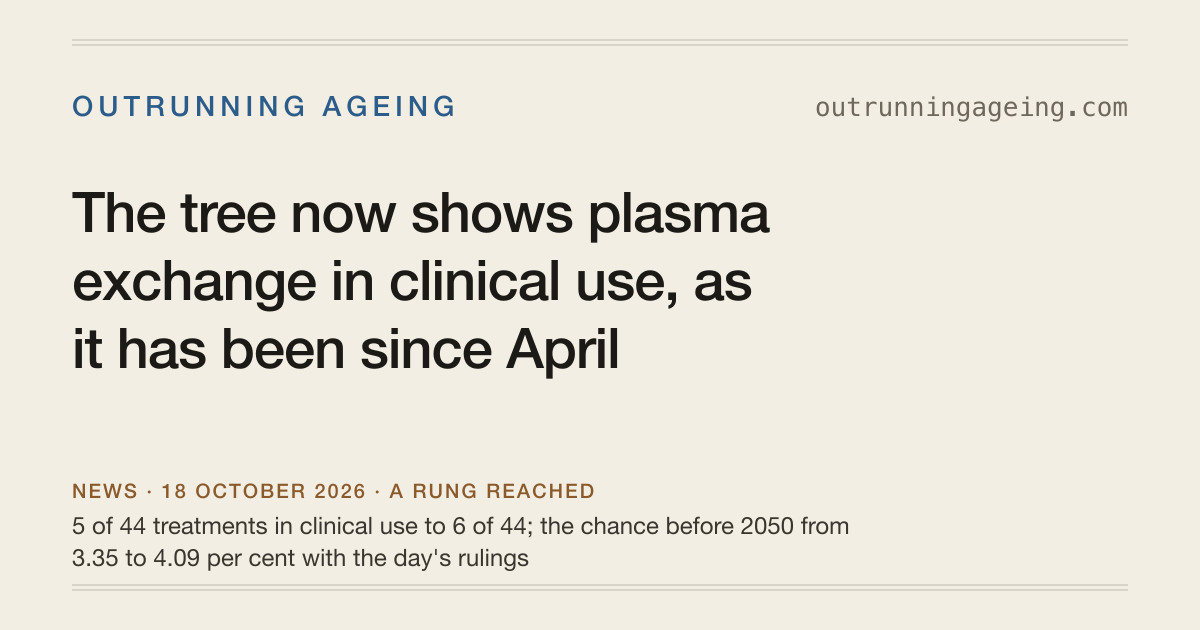
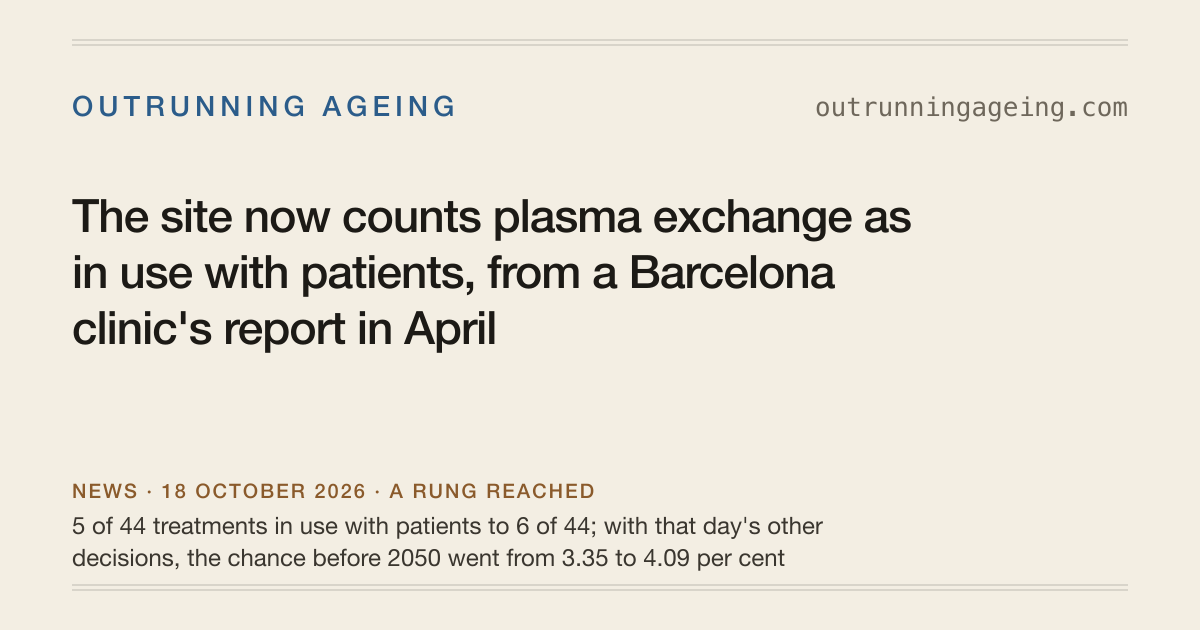
2026-10-19: both news posts rewritten as short stories for a reader new to the site (tracker pattern rule 4.19, John's ruling of 2026-10-19); no fact or figure changed
The plasma-exchange post opens on when a treatment stops being an experiment, tells the Barcelona clinic's report and the ruling plainly, and says what it changes (sixth of 44 in use with patients, the inflammation group 2042 to 2026) and what it does not (the year stays 2058). No table, no item numbers; the title and summary are plainer and the source labels drop "item 13".

The Start here post keeps John's opening, names the five stages and the turning point before any number, cuts the file-path source appendix and the words "rung", "tree", "handled" and "session", and gives one reason for the year holding at 2058, the same as the plasma post's. Each ends with one plain dated line saying it was rewritten. Not live until John approves.

Changed region(s): [[0.0617, 0.3016, 0.7708, 0.6032], [0.0617, 0.8143, 0.7092, 0.9048]]

diff --git a/site/src/content/news/2026-10-18-start-here.md b/site/src/content/news/2026-10-18-start-here.md
@@ -2,29 +2,31 @@
 title: "Where Outrunning Ageing stands, and what to watch"
 date: 2026-10-18
 kind: start-here
-summary: What the site asks and how the year is worked out, where the numbers stand as of 18 October 2026, how to follow them week by week, the most interesting news so far, and what to watch for.
+summary: When will medicine start adding more than a year of healthy life for every year you live? This post explains how the site works out its answer, where that answer stood on 18 October 2026, and what could move it next.
 sources:
-  - label: The headline file, the numbers as they stand
+  - label: The numbers as they stand
     url: https://outrunningageing.com/data/headline.json
-  - label: The method
+  - label: How the year is worked out
     url: https://outrunningageing.com/method/
 ---
 
-## The idea
+## The Idea
 
 [Outrunning Ageing](https://outrunningageing.com/) asks one question: when do we start outrunning ageing? Every year you live, medicine gets a little better, but for a person in middle age it does not yet get better fast enough, so the years you can expect to have left still fall by about a year every year. The site asks when, if ever, that stops being true, so that someone who keeps up with the best available care finds their remaining years holding steady or rising.
 
-The question usually gets filed under science fiction or under marketing. I wanted it broken into pieces anyone can argue about, with a year at the top that is computed from them and moves in public when a new result moves it. How and why I built it is in [the essay that introduced the project](https://sentient-horizons.com/essays/outrunning-ageing/).
+The question usually gets filed under science fiction or under marketing. I wanted it broken into pieces anyone can argue about, with a year at the top that is worked out from those pieces and moves in public when a new result moves it. How and why I built it is in [the essay that introduced the project](https://sentient-horizons.com/essays/outrunning-ageing/).
 
-This is the start of the site's news section. When a reading or a ruling moves a treatment up a rung, changes the year or settles a promise in the claims log, I will write it up here beside the record it explains. A quiet week gets no post.
+This post opens the site's news section. When a new result or one of my decisions moves a treatment to a new stage, changes the year or settles one of the public promises in [the claims log](https://outrunningageing.com/claims/), I will write it up here and link the page it changes. A quiet week gets no post.
 
-## Where the numbers stand
+## Where the Numbers Stand
 
-As of 18 October 2026, the middle estimate of the year medicine starts adding more than a year of healthy life for every year that passes is 2058, from two hundred thousand runs of the tree ([the headline record](https://outrunningageing.com/data/headline.json)). Nine runs in ten land between 2050 and 2069. The chance it comes before 2050 is 4.3 percent, and in no run does it fail to arrive this century.
+The pieces are treatments, and a few tools for measuring ageing: [45 of them](https://outrunningageing.com/branches/) on 18 October 2026, after one joined that day. Each moves through the same five stages: an idea only, shown in animals, tried in people, in use with patients, and in wide use. Each has a plain test for when it counts as in use with patients and, if it is not there yet, a range of years for when it might get there. To find the year at the top, the turning point the site's question asks about, the site picks a year from every range, works out the turning point that those picks would give, and does this two hundred thousand times, so that the answer shows how uncertain it is rather than resting on a single guess.
 
-The year is worked out from 45 treatments and measuring tools on [eight branches](https://outrunningageing.com/branches/), seven for kinds of damage that repair has to deal with and one for measuring ageing. A branch counts as handled in the year its second treatment reaches patients, and the year at the top cannot come until every branch is handled, plus some years for the treatments to reach ordinary people. The middle estimate for each branch:
+On 18 October 2026 the middle of those two hundred thousand results was 2058 ([the numbers as they stand](https://outrunningageing.com/data/headline.json)). Nine results in ten fell between 2050 and 2069. In 4.3 per cent of the results the turning point came before 2050, which the site calls the chance before 2050, and in every result it came by 2100.
 
-- [broken proteins and waste](https://outrunningageing.com/branches/broken-proteins/): handled by 2023;
+The treatments sit in [eight groups](https://outrunningageing.com/branches/), seven for the kinds of damage that ageing does and one for measuring ageing. A group counts as dealt with in the year its second treatment reaches patients. The turning point cannot come until every group is dealt with, and then it waits a few more years while the treatments spread from the clinic to ordinary people. The middle estimate for each group:
+
+- [broken proteins and waste](https://outrunningageing.com/branches/broken-proteins/): already dealt with, in 2023, since two of its treatments are in use;
 - [inflammation and the body's messaging](https://outrunningageing.com/branches/inflammation-and-signalling/): 2026;
 - [energy and fuel sensing](https://outrunningageing.com/branches/energy-and-fuel/): 2028;
 - [replacing lost cells and parts](https://outrunningageing.com/branches/replacing-parts/): 2032;
@@ -33,57 +35,38 @@ The year is worked out from 45 treatments and measuring tools on [eight branches
 - [damaged DNA](https://outrunningageing.com/branches/damaged-dna/): 2044;
 - [the cell's settings](https://outrunningageing.com/branches/cell-settings/): 2044.
 
-Six of the 45 are already in use with patients. The gap between the clinic and ordinary people is drawn from 3 to 15 years, most likely 8 ([the method](https://outrunningageing.com/method/)).
+Six of the 45 are already in use with patients. The time it takes a treatment to spread from the clinic to ordinary people is my own first guess, anywhere from 3 to 15 years and most likely 8 ([how the year is worked out](https://outrunningageing.com/method/)).
 
-The year has stood at 2058 at every run since the first, while the chance before 2050 has risen from 2.7 to 4.3 percent ([what changed, day by day](https://outrunningageing.com/story/#what-changed)).
+The year has stood at 2058 every time it has been worked out, while the chance before 2050 has risen from 2.7 to 4.3 per cent ([what changed, day by day](https://outrunningageing.com/story/#what-changed)).
 
-## How to follow it
+## How to Follow It
 
-Every Sunday morning, Pacific time, a fresh session searches the week's news against every treatment's test, every claim and every public self-experiment, and gives each a verdict. It may move a treatment up one rung, onto "shown in animals" or "first human" only, and only on a record of the kind that treatment names. Putting a treatment in the clinic, changing an estimate or settling a claim is left to me.
+Every Sunday morning, Pacific time, the site's automated weekly search checks the week's news against every treatment's test, every promise in the claims log and every public self-experiment (people openly testing a treatment on themselves), and gives each a verdict. That weekly search may move a treatment up one stage, to shown in animals or tried in people and no further, and only on the kind of evidence that treatment's test names. Putting a treatment in use with patients, changing a range of years or settling a promise is left to me.
 
-Each week's reading is on [the Reading page](https://outrunningageing.com/reading/). [The Story](https://outrunningageing.com/story/) logs every paper read, and its section [What changed, day by day](https://outrunningageing.com/story/#what-changed) gives one line for each day the records changed. [The Branches](https://outrunningageing.com/branches/) lead to every treatment with its test, stage and range of years, and [the Claims](https://outrunningageing.com/claims/) page sets who promised what beside what has been shown. [The Method](https://outrunningageing.com/method/) explains how the year is worked out and who does what. Every new post also goes out on [the news feed](https://outrunningageing.com/news/feed.xml).
+Each week's search is on [the Reading page](https://outrunningageing.com/reading/), and [the Story](https://outrunningageing.com/story/) gives one line for each day something on the site changed. [The Branches page](https://outrunningageing.com/branches/) leads to every group and treatment with its test, its stage and its range of years, and [the Claims](https://outrunningageing.com/claims/) page sets what people have promised beside what has been shown. Every new post also goes out on [the news feed](https://outrunningageing.com/news/feed.xml).
 
-## The most interesting news so far
+## The Most Interesting News So Far
 
-The biggest move on the site came on 17 October 2026, when it recognised that [plasma exchange](https://outrunningageing.com/leaves/replacing-a-persons-plasma-slows-an-age-related-disease/) had reached the clinic: the [Ace Alzheimer Center in Barcelona](https://www.acebarcelona.org/en/plasma-exchange-alzheimers-asfa-2026) had published on 27 April 2026 that 71 patients had completed its 15-month programme under routine clinical practice. The treatment, replacing the liquid part of a person's blood to slow an age-related disease, had sat on the tree at first human since [a trial in Alzheimer's disease](https://doi.org/10.1002/alz.12137) reported in July 2020. The site's first weekly reading found only the supplier's word for it, and the outside review the same day found the centre's own page. I ruled that a named clinic publishing its own practice meets the test, and the rung is dated to the centre's page, in April. The case against is on the record too: the results were a conference presentation, not a peer-reviewed paper, and the guidelines of the professional society for blood-filtering treatments still class its role in Alzheimer's disease as not established. With plasma exchange and an anti-inflammatory drug already approved to prevent heart attacks, the [inflammation branch](https://outrunningageing.com/branches/inflammation-and-signalling/) went from handled by 2042 to 2026.
+The biggest move so far came on 17 October 2026, when the site recognised that [plasma exchange](https://outrunningageing.com/leaves/replacing-a-persons-plasma-slows-an-age-related-disease/), which replaces the liquid part of a person's blood, is in use with patients. The [Ace Alzheimer Center Barcelona](https://www.acebarcelona.org/en/plasma-exchange-alzheimers-asfa-2026) had published on 27 April 2026 that 71 people with Alzheimer's disease had completed its fifteen-month programme as ordinary care, and I ruled that a named clinic publishing its own practice meets the test. The case against is on the treatment's page too: the results were a conference talk, not a paper checked by other scientists, and the professional society for treatments that filter the blood still says its role in Alzheimer's disease is not established. [Colchicine](https://outrunningageing.com/leaves/an-anti-inflammatory-drug-is-approved-to-prevent-heart-attacks/), a drug that acts only on inflammation, was already approved to prevent heart attacks, so with plasma exchange the [inflammation group](https://outrunningageing.com/branches/inflammation-and-signalling/) moved from 2042 to 2026. [The post on plasma exchange](https://outrunningageing.com/news/2026-10-18-plasma-exchange-in-clinical-use/) tells the whole story.
 
-The year did not move, because other rulings from the same review pulled the other way. One was on [a drug meant to lengthen the caps on the ends of chromosomes](https://outrunningageing.com/leaves/a-drug-lengthens-chromosome-ends-in-a-person/): its follow-up study found no significant lengthening, and its one mid-stage trial was stopped in 2025 because it could not succeed, so its range of years moved later, from between 2030 and 2070 to between 2038 and 2085. Taken together, that day's rulings raised the chance before 2050 from 3.4 to 4.1 percent. The review also offered four published figures for the gap between the clinic and ordinary people, and none checked out, so the gap stays a first guess.
+The year did not move. It waits for the slowest groups, and inflammation was not one of them, while other decisions from the same review pushed some groups later. One was about [a drug meant to lengthen the protective caps on the ends of chromosomes](https://outrunningageing.com/leaves/a-drug-lengthens-chromosome-ends-in-a-person/): its follow-up study found no lengthening that could be told apart from chance, and its one mid-stage trial was stopped in 2025 because it could not succeed, so its range of years moved later, from between 2030 and 2070 to between 2038 and 2085. Taken together, that day's decisions raised the chance before 2050 from 3.4 to 4.1 per cent. The review also offered four published figures for how long a treatment takes to spread from the clinic to ordinary people, and none of them held up when checked, so that figure stays my first guess.
 
-Earlier that day [a drug to make dogs live longer](https://outrunningageing.com/leaves/a-drug-is-approved-to-make-dogs-live-longer/) joined the tree, at idea only, since the only data behind it so far are the company's own. A conditional approval would put it in the clinic, most likely in 2028, and adding it moved the energy and fuel sensing branch from 2039 to 2028.
+Earlier on 17 October [a drug to make dogs live longer](https://outrunningageing.com/leaves/a-drug-is-approved-to-make-dogs-live-longer/) joined the site at the earliest stage, an idea only, since the only data behind it so far are the company's own. It sits beside the human treatments because it is the first place a regulator is being asked to put "extends lifespan" on a label. A conditional approval would count as in use, most likely in 2028, and adding it moved the energy and fuel sensing group from 2039 to 2028.
 
-On 18 October 2026, after a reading of one laboratory's papers, a new measuring tool went on the tree: [a count of the DNA](https://outrunningageing.com/leaves/a-blood-count-of-mitochondrial-dna-predicts-death-and-disease/) in a cell's power plants, the mitochondria, taken from a blood sample. [A 2014 report](https://doi.org/10.1007/s00109-014-1233-3) on 16,401 people found that those with the lowest counts were more likely to die, allowing for age and sex. It entered at first human, and the chance before 2050 rose from 4.1 to 4.3 percent.
+On 18 October 2026, after a close reading of one laboratory's papers, a new measuring tool joined the site: [a count of the DNA](https://outrunningageing.com/leaves/a-blood-count-of-mitochondrial-dna-predicts-death-and-disease/) in a cell's power plants, the mitochondria, taken from a blood sample. [A 2014 report](https://doi.org/10.1007/s00109-014-1233-3) on 16,401 people found that those with the lowest counts were more likely to die, allowing for age and sex. It joined at the stage of tried in people, and the chance before 2050 rose from 4.1 to 4.3 per cent.
 
-## What to watch for
+## What to Watch For
 
-[The cell's settings branch](https://outrunningageing.com/branches/cell-settings/) is one of the two slowest, so it holds the year back more than most. [Tune Therapeutics](https://www.tunetx.com/) reported at a conference in May 2026 that one dose of [a treatment that rewrites the chemical marks on a single gene](https://outrunningageing.com/leaves/a-cells-settings-are-rewritten-at-one-gene-in-a-person/) kept a liver virus's markers down for up to seventeen months. Once that appears in a peer-reviewed paper or as results posted to the trial registry, the treatment should move to first human. The [registry](https://clinicaltrials.gov/study/NCT06671093) estimates the trial's main results in June 2028.
+[The cell's settings group](https://outrunningageing.com/branches/cell-settings/) is one of the two slowest, so it holds the year back more than most. [Tune Therapeutics](https://www.tunetx.com/) reported at a conference in May 2026 that one dose of [a treatment that rewrites the chemical marks on a single gene](https://outrunningageing.com/leaves/a-cells-settings-are-rewritten-at-one-gene-in-a-person/) kept the signs of a liver virus, hepatitis B, down in the blood for up to seventeen months. Once that appears in a paper checked by other scientists, or as results posted to the public register of clinical trials, the treatment should move up to tried in people. [The register](https://clinicaltrials.gov/study/NCT06671093) expects the trial's main results in June 2028.
 
-[Vertex reports its third-quarter results on 2 November 2026](https://investors.vrtx.com/news-releases/news-release-details/vertex-announce-third-quarter-2026-financial-results-november), and the record is watching for any approval filing for zimislecel, insulin-making cells it grows from stem cells to treat type 1 diabetes ([the treatment's record](https://outrunningageing.com/leaves/cells-grown-from-stem-cells-restore-a-lost-organ-function/)).
+The drug company [Vertex](https://www.vrtx.com/) [reports its quarterly results on 2 November 2026](https://investors.vrtx.com/news-releases/news-release-details/vertex-announce-third-quarter-2026-financial-results-november), and the site is watching for any news that it has applied for approval of zimislecel, insulin-making cells the company grows from stem cells to treat type 1 diabetes ([the treatment's page](https://outrunningageing.com/leaves/cells-grown-from-stem-cells-restore-a-lost-organ-function/)).
 
-A small pilot trial of [eye drops meant to dissolve the clouded protein of a cataract](https://outrunningageing.com/leaves/eye-drops-dissolve-the-clouded-protein-of-a-cataract/) is due to finish in February 2027, by [the registry's estimate](https://clinicaltrials.gov/study/NCT07395986); no human trial of such drops has been published yet. The company behind the dog drug, [Loyal](https://loyal.com/), now expects to finish its application in 2027 ([the dog drug's record](https://outrunningageing.com/leaves/a-drug-is-approved-to-make-dogs-live-longer/)).
+A small early trial of [eye drops meant to dissolve the clouded protein of a cataract](https://outrunningageing.com/leaves/eye-drops-dissolve-the-clouded-protein-of-a-cataract/) is due to finish in February 2027, by [the register's estimate](https://clinicaltrials.gov/study/NCT07395986); no trial of such drops in people has been published yet. The company behind the dog drug, [Loyal](https://loyal.com/), now expects to finish its application in 2027 ([the dog drug's page](https://outrunningageing.com/leaves/a-drug-is-approved-to-make-dogs-live-longer/)).
 
-[The claims log](https://outrunningageing.com/claims/) has dates coming due as well, from 2029 on, among them the inventor [Ray Kurzweil](https://en.wikipedia.org/wiki/Ray_Kurzweil)'s [claim of February 2026](https://www.bostonmagazine.com/health/2026/02/11/ray-kurzweil-interview/) that by 2032 "you'll gain back one year for each year lived." A claim never moves the year.
+[The claims log](https://outrunningageing.com/claims/) has dates coming due as well, from 2029 on, among them the inventor [Ray Kurzweil](https://en.wikipedia.org/wiki/Ray_Kurzweil)'s [claim of February 2026](https://www.bostonmagazine.com/health/2026/02/11/ray-kurzweil-interview/) that by 2032 "you'll gain back one year for each year lived." A promise in the claims log never moves the year.
 
 ---
 
-## Sources
+Every fact above links to its source or to the page on this site it comes from. The numbers are as they stood on 18 October 2026, and they were the same when the site worked them out again on 19 October ([the numbers as they stand](https://outrunningageing.com/data/headline.json)).
 
-Every fact above was checked on 2026-10-18 against the page or record named here. Repository paths are on the `main` branch of [github.com/jfredson/outrunning-ageing](https://github.com/jfredson/outrunning-ageing) at commit `3875679`.
-
-- The question and the paragraph under it: https://outrunningageing.com/ (the page's only heading, "When do we start outrunning ageing?").
-- Science fiction or marketing, pieces anyone can argue about, a number computed from the pieces: `README.md` line 5; https://outrunningageing.com/method/ , "Who is asking".
-- 2058, 2050 to 2069, 4.27 percent before 2050, 0 percent after 2100, 200,000 runs, computed 2026-10-18: https://outrunningageing.com/data/headline.json ; https://outrunningageing.com/method/ , "The numbers as they stand".
-- 45 treatments and tools, 6 in the clinic, eight branches and their middle years: https://outrunningageing.com/data/headline.json (`branches`, counts); https://outrunningageing.com/ .
-- The handled rule and the lag of 3, 8 and 15 years: https://outrunningageing.com/data/headline.json (`method`); https://outrunningageing.com/ .
-- The history of the chance before 2050 (2.66 percent on 2026-10-16, 4.27 percent now) and the year at 2058 throughout: headline file `history`; `CHANGELOG.md` line 7.
-- The weekly reading, its verdicts and its limits: https://outrunningageing.com/reading/ ; `docs/weekly-reading.md` lines 22 to 62. Sunday mornings: `docs/weekly-reading-prompt.md` line 21 ("Sundays 06:00 Pacific", ruled 2026-10-17).
-- Pages: /reading/ , /story/ and /story/#what-changed , /branches/ , /claims/ , /method/ , /disagree/ (all opened 2026-10-18). No feed: /rss.xml and /feed.xml return 404.
-- Plasma exchange, first human 2020-07-27, the Grifols release, the Barcelona page of 2026-04-27, 71 patients, the ruling, the case against, inflammation 2042 to 2026: `data/leaves/replacing-a-persons-plasma-slows-an-age-related-disease.toml` lines 31 to 34, 47 to 82, 115 to 121, 144; https://www.acebarcelona.org/en/plasma-exchange-alzheimers-asfa-2026 ; https://doi.org/10.1002/alz.12137 ; `CHANGELOG.md` lines 27 and 28.
-- The chromosome-ends drug (2030 / 2036 / 2070 to 2038 / 2048 / 2085, no significant lengthening, phase 2 stopped in 2025 for futility) and 3.35 to 4.09 percent: `CHANGELOG.md` lines 27 and 29; `docs/reviews/2026-10-17-rulings.md`.
-- The four lag figures that failed: `CHANGELOG.md` lines 35 and 45.
-- The dog drug, idea only, the company's own data, estimate 2027 / 2028 / 2032, energy branch 2039 to 2028: `data/leaves/a-drug-is-approved-to-make-dogs-live-longer.toml`; `CHANGELOG.md` line 142.
-- The mitochondrial DNA count, the reading of one laboratory's papers, 2014-12-04, 16,401 people, the lowest fifth more likely to die after allowing for age and sex, 4.09 to 4.27 percent: `CHANGELOG.md` line 9; `docs/readings/picard-lab-2026-10-18.md`.
-- The cell's settings branch among the two slowest: https://outrunningageing.com/data/headline.json (2044 with damaged DNA). Tune's conference report of 2026-05-30, "out to 17 months", the test and "move to first human soon after": `data/leaves/a-cells-settings-are-rewritten-at-one-gene-in-a-person.toml`. Main results estimated 2028-06-28: https://clinicaltrials.gov/study/NCT06671093 (registry read 2026-10-18).
-- Vertex's results on 2026-11-02 and zimislecel: `data/scans/2026-10-18.toml` line 301; `data/leaves/cells-grown-from-stem-cells-restore-a-lost-organ-function.toml` lines 15 to 17; https://investors.vrtx.com/news-releases/news-release-details/vertex-announce-third-quarter-2026-financial-results-november (date confirmed 2026-10-18).
-- The cataract drops pilot, estimated to finish 2027-02, and no human trial published: `data/leaves/eye-drops-dissolve-the-clouded-protein-of-a-cataract.toml` lines 14 to 17; https://clinicaltrials.gov/study/NCT07395986 (registry read 2026-10-18).
-- Loyal's application now expected in 2027: `data/leaves/a-drug-is-approved-to-make-dogs-live-longer.toml` (estimate and notes).
-- Claims due 2029, 2030 and 2032, and the Kurzweil quote of 2026-02-11: `data/claims/*.toml` (`due` fields); `data/claims/kurzweil-2026-escape-velocity-by-2032.toml`; https://outrunningageing.com/claims/ . Claims never move the year: `README.md`; https://outrunningageing.com/claims/ .
+19 October 2026: this post was rewritten in plainer words; no fact or figure in it changed ([what changed, day by day](https://outrunningageing.com/story/#what-changed)).

diff --git a/site/src/content/news/2026-10-18-plasma-exchange-in-clinical-use.md b/site/src/content/news/2026-10-18-plasma-exchange-in-clinical-use.md
@@ -1,39 +1,49 @@
 ---
-title: The tree now shows plasma exchange in clinical use, as it has been since April
+title: The site now counts plasma exchange as in use with patients, from a Barcelona clinic's report in April
 date: 2026-10-18
 kind: rung-reached
-summary: On 27 April 2026 a Barcelona centre published that 71 patients had completed its fifteen-month plasma-exchange programme in routine care. That is what the treatment's own test asks for, so on 17 October 2026 the site moved it from first human to in clinical use, dated to the centre's page, the sixth treatment on the tree to reach that rung.
+summary: When does a treatment stop being an experiment? For plasma exchange in Alzheimer's disease, the site's answer is now April 2026, when a clinic in Barcelona said publicly that 71 people had finished its programme as ordinary care. Here is why that counts, why it matters, and why the site's estimate for when medicine starts outrunning ageing did not move.
 records: [replacing-a-persons-plasma-slows-an-age-related-disease]
 reading: 2026-10-17
-before: "5 of 44 treatments in clinical use"
-after: "6 of 44; the chance before 2050 from 3.35 to 4.09 per cent with the day's rulings"
+before: "5 of 44 treatments in use with patients"
+after: "6 of 44; with that day's other decisions, the chance before 2050 went from 3.35 to 4.09 per cent"
 sources:
-  - label: Ace Alzheimer Center Barcelona, plasma exchange for Alzheimer's at ASFA 2026, 27 April 2026
+  - label: Ace Alzheimer Center Barcelona, its announcement of 27 April 2026
     url: https://www.acebarcelona.org/en/plasma-exchange-alzheimers-asfa-2026
-  - label: Boada and others, a randomized controlled trial of plasma exchange with albumin replacement for Alzheimer's disease, Alzheimer's and Dementia, 2020
+  - label: Grifols, its press release of 12 March 2026
+    url: https://www.grifols.com/en/view-news/-/news/grifols-y-ace-alzheimer-center-barcelona-renuevan-su-colaboracion-para-impulsar-el-programa-ambar-e-incorporar-nuevos-centros
+  - label: Boada and others, the 2020 trial of plasma exchange in Alzheimer's disease
     url: https://doi.org/10.1002/alz.12137
-  - label: The rulings of 17 October 2026 on the outside review, item 13
+  - label: The outside review of 17 October 2026 and the decisions made on it
     url: https://github.com/jfredson/outrunning-ageing/blob/main/docs/reviews/2026-10-17-rulings.md
 ---
 
-## What happened
+When does a treatment stop being an experiment and become something a doctor will simply give you? This site tracks the treatments that would each have to cross that line before medicine reaches a turning point: the year it starts adding more than a year of healthy life for every year that passes. A treatment only counts towards that turning point once it is in use with patients, so the line matters, and on 17 October 2026 I moved [one treatment](/leaves/replacing-a-persons-plasma-slows-an-age-related-disease/) across it.
 
-On 27 April 2026 the Ace Alzheimer Center in Barcelona [published on its own page](https://www.acebarcelona.org/en/plasma-exchange-alzheimers-asfa-2026) that 71 people with Alzheimer's disease had completed its fifteen-month plasma-exchange programme "under routine clinical practice conditions", presented at the [American Society for Apheresis](https://en.wikipedia.org/wiki/American_Society_for_Apheresis) meeting of 2026. The [weekly reading of 17 October](/reading/#2026-10-17) had found a supplier's press release saying the programme has run since 2021, and left it for the author, because a supplier's release is not the clinic's own publication of its practice. An outside review the same day brought the centre's own page, and John ruled on 17 October that it counts ([the rulings, item 13](https://github.com/jfredson/outrunning-ageing/blob/main/docs/reviews/2026-10-17-rulings.md)).
+The treatment is plasma exchange. Plasma is the liquid part of the blood, and the procedure takes it out and replaces it with salt water and a blood protein called albumin. Hospitals have used it for decades for other illnesses. In [a trial reported in 2020](https://doi.org/10.1002/alz.12137), 347 people with Alzheimer's disease took part, and those given plasma exchange every month for over a year declined more slowly on tests of daily functioning than those given a sham, a procedure that only looks the same. Not every measure the trial tracked moved, but it was a real result in people, enough for the site to count the treatment as tried in people.
 
-## What it changes here
+To count as in use with patients, the site asks for one of two things: a regulator, the government body that approves medicines, approves the procedure for an age-related condition; or a named clinic gives it for that purpose as ordinary care and says so publicly ([the treatment's page](/leaves/replacing-a-persons-plasma-slows-an-age-related-disease/) sets out the test). No regulator has, so the question was whether a clinic had said so.
 
-| what | before | after |
-|---|---|---|
-| Replacing the liquid part of a person's blood slows an age-related disease | first human, since 2020 | in clinical use, since 27 April 2026 |
-| Its estimate | a clinic range starting at 2030 | the clinic rung reached; the wide-use years 2032, 2045 and 2090 stand, marked reviewed |
-| Treatments in clinical use | 5 of 44 | 6 of 44 |
-| The middle year | 2058 | 2058, unchanged |
-| The chance before 2050 | 3.35 per cent | 4.09 per cent, with the day's thirteen rulings together |
+## What Happened
 
-## Why
+On 12 March 2026 the company that supplies the programme, [Grifols](https://www.grifols.com/en/home), said in [a press release](https://www.grifols.com/en/view-news/-/news/grifols-y-ace-alzheimer-center-barcelona-renuevan-su-colaboracion-para-impulsar-el-programa-ambar-e-incorporar-nuevos-centros) that the [Ace Alzheimer Center Barcelona](https://www.acebarcelona.org/en) had been running a plasma-exchange programme for people with Alzheimer's disease since 2021. The site's automated weekly search of the news [found that release on 17 October](/reading/#2026-10-17) and left the decision to me, because a supplier saying what a clinic does is not the clinic saying it.
 
-The treatment's test says the clinic rung is reached when a regulator approves the procedure for an age-related condition, or when a named clinical setting gives it for that purpose in routine care and publishes that practice ([the treatment's page](/leaves/replacing-a-persons-plasma-slows-an-age-related-disease/)). The centre's page is the second of those: a named setting, routine care, published by the setting itself. The supplier's press release of 12 March 2026 was not enough on its own, because the rule asks the clinic to say it, and a rung never moves down, so a mistake could not be undone. The rung is dated to the centre's publication, not to 2021, when the supplier says the programme began, for the same reason.
+The same day, an outside review of the site's evidence found the clinic's own words. On 27 April 2026 the centre [published on its own page](https://www.acebarcelona.org/en/plasma-exchange-alzheimers-asfa-2026) that 71 patients had completed its fifteen-month programme "under routine clinical practice conditions", results its team presented at the 2026 meeting of the [American Society for Apheresis](https://www.apheresis.org/), the professional society for treatments that filter the blood. On 17 October I ruled that this meets the test, and the site moved plasma exchange to in use with patients.
 
-## What it does not mean
+There is a fair case against, and it stays on the treatment's page. The centre's announcement is of a conference talk, not a paper checked by other scientists. And the society's own guidelines place plasma exchange for Alzheimer's disease in the category of treatments whose role is not yet established. I weighed both and still ruled that it counts.
 
-It does not mean plasma exchange slows ageing. The programme treats Alzheimer's disease, one age-related condition, and the [trial behind it](https://doi.org/10.1002/alz.12137) (347 people, reported in 2020) moved some of its measures and not others. It does not mean the procedure is approved for ageing anywhere; no regulator has said so, and the apheresis society's guidelines place it in the category whose role is not yet established. And the middle year did not move: the year is computed from the branches' slowest treatments, and this one was not on that path ([the method](/method/)).
+The move is dated 27 April 2026, the day the centre published, and not 2021, when the supplier says the programme began. The [test](/leaves/replacing-a-persons-plasma-slows-an-age-related-disease/) asks the clinic to say it, and the clinic's page does not give that year. I am strict about this because a treatment never moves back down on this site, so a mistake could not be quietly undone.
+
+## What It Changes, and What It Does Not
+
+Plasma exchange became the sixth of the site's 44 treatments in use with patients, up from five ([the treatment's page](/leaves/replacing-a-persons-plasma-slows-an-age-related-disease/)). The site sorts its treatments into eight groups, seven for the kinds of damage that ageing does and one for measuring it, and a group counts as dealt with once two of its treatments are in use with patients. [Colchicine](/leaves/an-anti-inflammatory-drug-is-approved-to-prevent-heart-attacks/), a drug that acts only on inflammation, was already approved to prevent heart attacks. With plasma exchange as the second, the site's middle estimate for when the [group for inflammation and the body's messaging](/branches/inflammation-and-signalling/) is dealt with moved from 2042 to 2026, this year.
+
+The estimate for the turning point did not move. It stayed at 2058, because the turning point cannot come until the slowest group is dealt with, and inflammation was not the slowest ([how the year is worked out](/method/)). Counting the other decisions I made on the review that day, the site's chance that the turning point comes before 2050 went from 3.35 to 4.09 per cent ([what changed, day by day](/story/#what-changed)).
+
+It does not mean plasma exchange slows ageing. The Barcelona programme treats one disease of old age, and no regulator anywhere has approved the procedure for ageing.
+
+The next stage is wide use: offered to the general public in at least one country and taken up by many people. The site's estimate is 2045 at the most likely, no earlier than 2032 and as late as 2090 ([the treatment's page](/leaves/replacing-a-persons-plasma-slows-an-age-related-disease/)). The most likely year assumes wide use waits for a second controlled trial, in Alzheimer's disease or in healthy older people, to confirm the 2020 result.
+
+---
+
+19 October 2026: this post was rewritten in plainer words; no fact or figure in it changed ([what changed, day by day](/story/#what-changed)).
